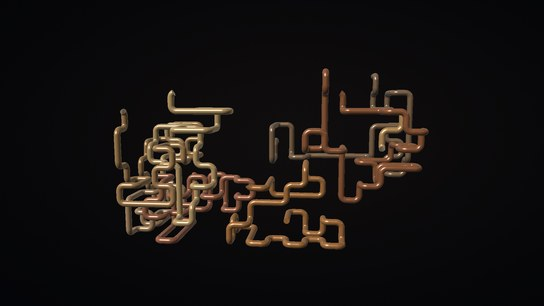
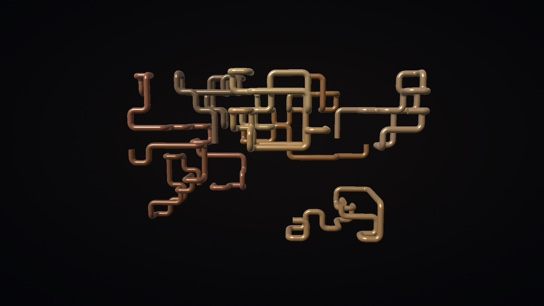
Show verified Pipeworks 1.1 physical preview and release contract

Changed region(s): [[0.1875, 0.2059, 0.8125, 0.8235]]

diff --git a/test/screensavers-coverage.test.js b/test/screensavers-coverage.test.js
@@ -241,7 +241,7 @@ test('Pipeworks Dream registry entry points to its released app and installer re
     pkg: 'com.jeremykenedy.pipeworksdream',
     dreamComponent: 'com.jeremykenedy.pipeworksdream/.PipeworksDreamService',
     repo: 'jeremykenedy/pipeworks-dream',
-    blurb: 'Rounded metallic 3D pipes with smooth growth, moving perspective and adjustable finishes.',
+    blurb: 'Growing 3D pipes with rounded bends, configurable colors, tube shapes, thickness and delayed following tails.',
   });
 });
 

diff --git a/src/screensaver-registry.js b/src/screensaver-registry.js
@@ -161,7 +161,7 @@ export const SCREENSAVERS = [
     pkg: 'com.jeremykenedy.pipeworksdream',
     dreamComponent: 'com.jeremykenedy.pipeworksdream/.PipeworksDreamService',
     repo: 'jeremykenedy/pipeworks-dream',
-    blurb: 'Rounded metallic 3D pipes with smooth growth, moving perspective and adjustable finishes.',
+    blurb: 'Growing 3D pipes with rounded bends, configurable colors, tube shapes, thickness and delayed following tails.',
   },
   {
     id: 'slot-vision',

diff --git a/docs/SCREENSAVERS.md b/docs/SCREENSAVERS.md
@@ -20,7 +20,7 @@
 | `vortex-spiral` | Vortex Spiral | `com.jeremykenedy.vortexspiral` | [jeremykenedy/vortex-spiral](https://github.com/jeremykenedy/vortex-spiral) | Animated spiral ribbons with adjustable arms, winding, color, brightness and motion |
 | `signal-rain` | Signal Rain | `com.jeremykenedy.signalrain` | [jeremykenedy/signal-rain](https://github.com/jeremykenedy/signal-rain) | Luminous abstract digital rain with adjustable streams, colors and motion |
 | `retro-flight` | Retro Flight | `com.jeremykenedy.retroflight` | [jeremykenedy/retro-flight](https://github.com/jeremykenedy/retro-flight) | Continuous perspective flight through an original procedural star field |
-| `pipeworks-dream` | Pipeworks Dream | `com.jeremykenedy.pipeworksdream` | [jeremykenedy/pipeworks-dream](https://github.com/jeremykenedy/pipeworks-dream) | Rounded metallic 3D pipes with smooth growth, moving perspective and adjustable finishes |
+| `pipeworks-dream` | Pipeworks Dream | `com.jeremykenedy.pipeworksdream` | [jeremykenedy/pipeworks-dream](https://github.com/jeremykenedy/pipeworks-dream) | Growing 3D pipes with rounded bends, configurable colors, tube shapes, thickness and delayed following tails |
 | `slot-vision` | Slot Vision | `com.jeremykenedy.reelatrium` | [jeremykenedy/slot-vision](https://github.com/jeremykenedy/slot-vision) | Classic and multi-row reels with cabinet or fullscreen views, seasonal themes and payout coin showers |
 | `hearth-presence` | Hearth Presence | `com.jeremykenedy.hearthpresence` | [jeremykenedy/hearth-presence](https://github.com/jeremykenedy/hearth-presence) | Moving wood and gas fireplaces with adjustable surrounds, frame width and burn speed |
 | `aqua-surface` | Aqua Surface Drift | `com.jeremykenedy.aquasurfacedrift` | [jeremykenedy/aqua-surface-drift](https://github.com/jeremykenedy/aqua-surface-drift) | Animated water with adjustable environment, lighting, ripples, motion and view |
@@ -92,6 +92,7 @@ this repository before publishing. Toolkit gallery files use
 
 | Id | Package and DreamService | Release asset | Bytes | SHA-256 | Settings provider |
 |----|--------------------------|---------------|-------|---------|-------------------|
[4 lines of base64/hex data omitted]
@@ -114,3 +115,9 @@ firetv-screensavers --install=twilight-hearth --yes
[1 lines of base64/hex data omitted]
 
 The gallery uses actual physical Fire TV modern/bright output. [Capture provenance](screenshots/candidate-sources.json) records its source and release hashes. The on-TV Fire TV UI catalog is maintained separately.
+
+## Pipeworks Dream 1.1
+
+The existing `pipeworks-dream` entry downloads the latest signed release. Version 1.1.0 provides growing 3D tubes with round, square and hexagonal sections, three thicknesses, color and speed choices, and following tails delayed by 5, 15, 30 or 60 seconds. It preserves the package and production signer. Update with `firetv-screensavers --install=pipeworks-dream --yes`; selection remains separate through `screensaver --set=pipeworks-dream`.
+
+The exact released APK passed physical signed-update preservation, remote Preview/Credits/Back and actual bound DreamService/Back, independent moving review and exact restoration. The [upstream verification](https://github.com/jeremykenedy/pipeworks-dream/blob/v1.1.0/docs/VERIFICATION.md) records short dense-scene presentation samples and their limits. Automatic idle activation, native 4K and sustained thermal behavior remain unverified. The gallery and desktop catalog now use the final physical capture identified in [capture provenance](screenshots/candidate-sources.json).
